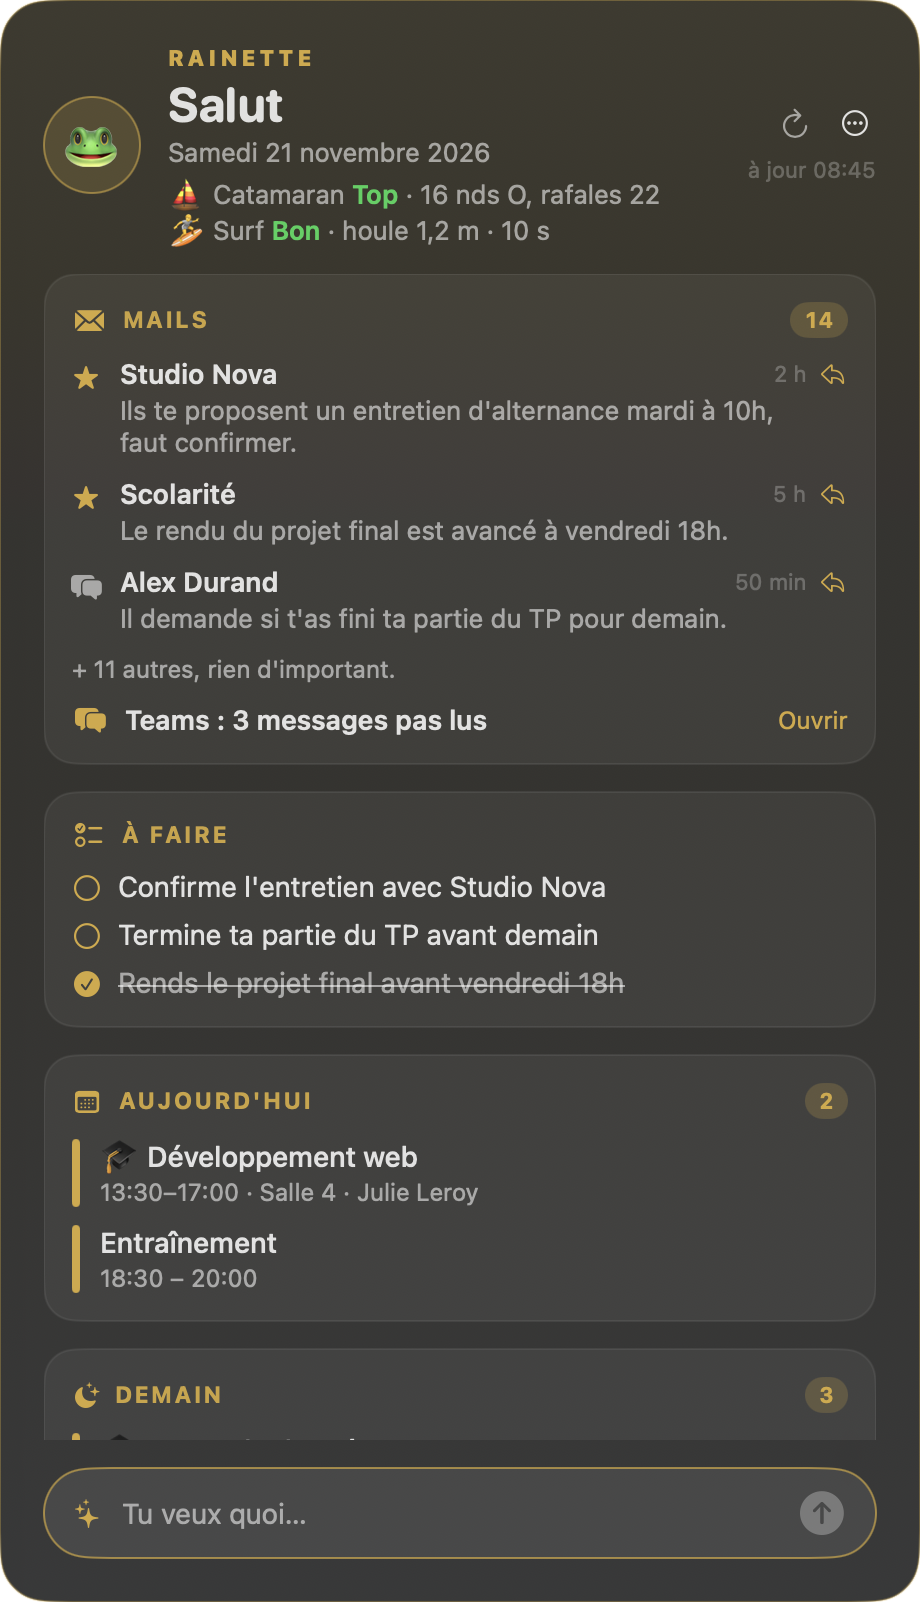
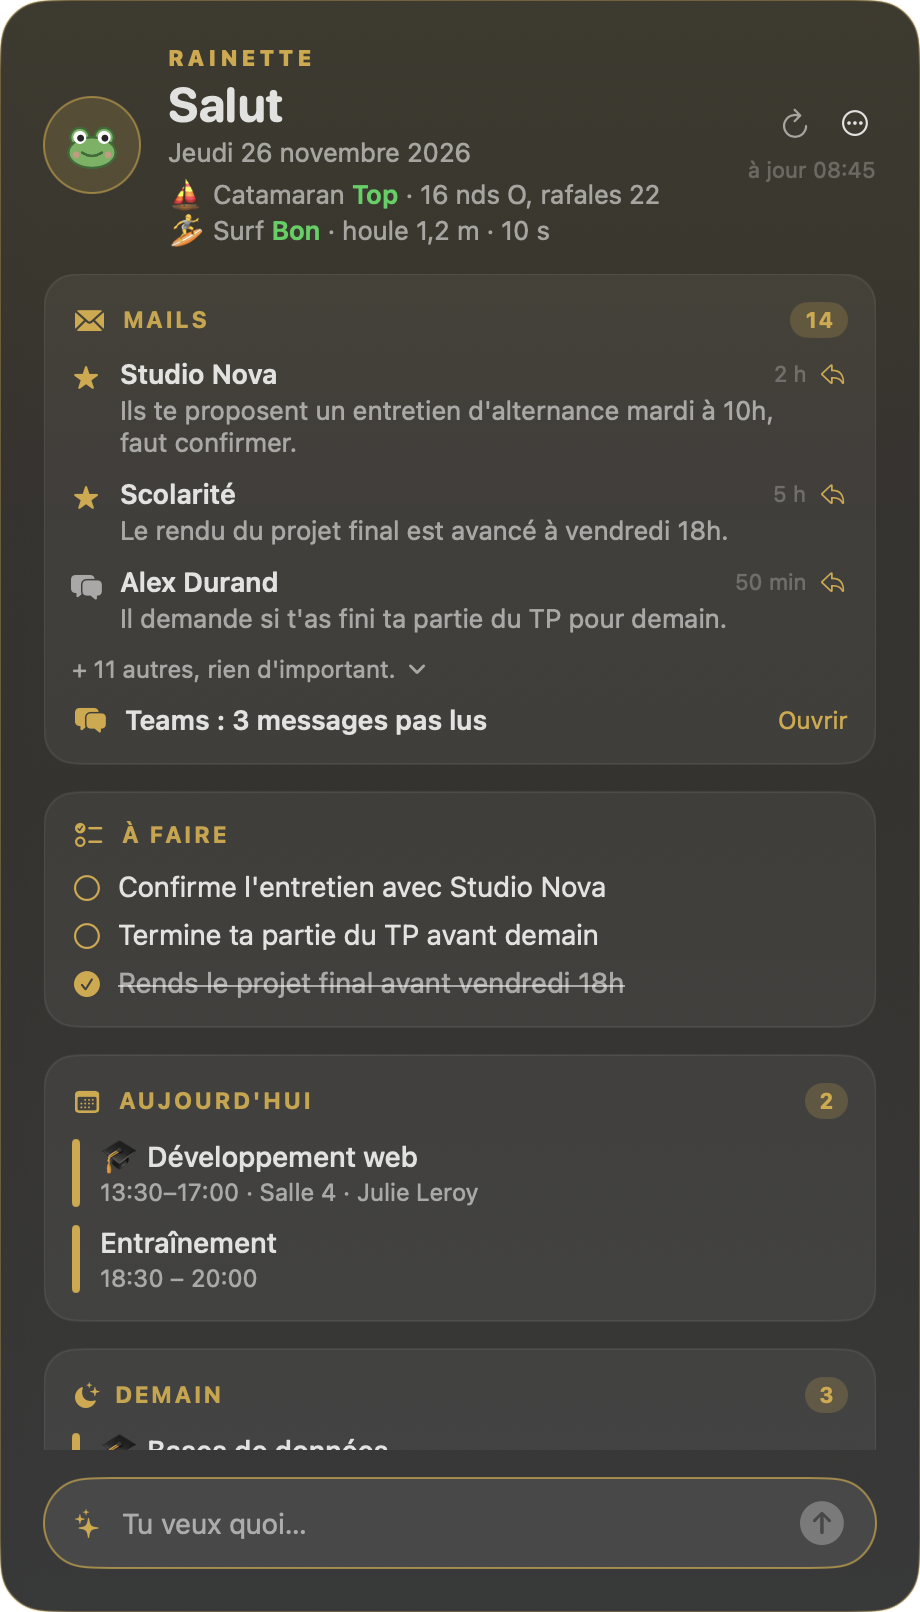
Grenouille dessinée avec ses humeurs (clignement, nuit, pluie, rien à faire), réglage « meteo », captures à jour

diff --git a/Sources/Grenouille.swift b/Sources/Grenouille.swift
@@ -1,0 +1,129 @@
+// La grenouille de Rainette, dessinée dans le code (nette à toutes les tailles), avec ses humeurs.
+import SwiftUI
+
+struct Grenouille: View {
+    enum Style: CaseIterable { case trait, pleine, minimale }
+    enum Humeur: CaseIterable { case normale, cligne, dort, pluie, contente }
+
+    var style: Style = .trait
+    var humeur: Humeur = .normale
+
+    private let vert = Color(red: 0.42, green: 0.70, blue: 0.36)
+    private let vertFonce = Color(red: 0.20, green: 0.42, blue: 0.20)
+    private let rose = Color(red: 0.95, green: 0.55, blue: 0.55)
+
+    var body: some View {
+        Canvas { ctx, taille in
+            let s = min(taille.width, taille.height)
+            func p(_ x: CGFloat, _ y: CGFloat) -> CGPoint { CGPoint(x: x * s, y: y * s) }
+            func rond(_ x: CGFloat, _ y: CGFloat, _ r: CGFloat) -> Path {
+                Path(ellipseIn: CGRect(x: (x - r) * s, y: (y - r) * s, width: 2 * r * s, height: 2 * r * s))
+            }
+
+            // Sous la pluie : un parapluie au-dessus, la grenouille un peu plus bas et plus petite.
+            var c = ctx
+            if humeur == .pluie {
+                dessinerParapluie(ctx, s: s, p: p)
+                c.translateBy(x: s * 0.09, y: s * 0.17)
+                c.scaleBy(x: 0.82, y: 0.82)
+            }
+
+            let trait = s * 0.034
+            let yeuxFermes = humeur == .cligne || humeur == .dort
+            let contente = humeur == .contente
+
+            // Tête et yeux
+            let tete = Path(ellipseIn: CGRect(x: 0.19 * s, y: 0.40 * s, width: 0.62 * s, height: 0.40 * s))
+            let oeilG = rond(0.34, 0.40, 0.125), oeilD = rond(0.66, 0.40, 0.125)
+            switch style {
+            case .trait:
+                // Remplissage opaque (couleur du fond du widget) : les yeux sont posés sur la tête,
+                // sans que les contours se croisent.
+                let fond = Color(red: 0.20, green: 0.18, blue: 0.11)
+                for f in [tete, oeilG, oeilD] {
+                    c.fill(f, with: .color(fond))
+                    c.fill(f, with: .color(or.opacity(0.16)))
+                    c.stroke(f, with: .color(or), lineWidth: trait)
+                }
+            case .pleine:
+                for f in [oeilG, oeilD, tete] {
+                    c.fill(f, with: .color(vert))
+                    c.stroke(f, with: .color(vertFonce), lineWidth: trait * 0.8)
+                }
+                // le contour des yeux passe derrière la tête : on la remplit à nouveau
+                c.fill(tete, with: .color(vert))
+                c.stroke(tete, with: .color(vertFonce), lineWidth: trait * 0.8)
+                c.fill(rond(0.29, 0.63, 0.045), with: .color(rose.opacity(0.7)))
+                c.fill(rond(0.71, 0.63, 0.045), with: .color(rose.opacity(0.7)))
+            case .minimale:
+                break
+            }
+
+            // Pupilles, ou yeux fermés
+            let couleurOeil: Color = style == .pleine ? vertFonce : or
+            for x in [0.34, 0.66] as [CGFloat] {
+                if yeuxFermes {
+                    var f = Path()
+                    f.move(to: p(x - 0.065, 0.405))
+                    f.addQuadCurve(to: p(x + 0.065, 0.405), control: p(x, humeur == .dort ? 0.45 : 0.43))
+                    c.stroke(f, with: .color(couleurOeil), style: StrokeStyle(lineWidth: trait, lineCap: .round))
+                } else if contente {
+                    var f = Path()               // yeux rieurs « ^ ^ »
+                    f.move(to: p(x - 0.06, 0.43))
+                    f.addQuadCurve(to: p(x + 0.06, 0.43), control: p(x, 0.34))
+                    c.stroke(f, with: .color(couleurOeil), style: StrokeStyle(lineWidth: trait, lineCap: .round))
+                } else {
+                    if style == .pleine { c.fill(rond(x, 0.40, 0.085), with: .color(.white)) }
+                    if style == .minimale { c.stroke(rond(x, 0.40, 0.1), with: .color(or), lineWidth: trait) }
+                    c.fill(rond(x + 0.01, 0.41, style == .pleine ? 0.045 : 0.05),
+                           with: .color(style == .pleine ? .black.opacity(0.85) : couleurOeil))
+                }
+            }
+
+            // Bouche
+            var bouche = Path()
+            bouche.move(to: p(0.37, 0.60))
+            bouche.addQuadCurve(to: p(0.63, 0.60), control: p(0.5, contente ? 0.76 : (humeur == .dort ? 0.64 : 0.69)))
+            let couleurBouche: Color = style == .pleine ? vertFonce : or
+            if contente {
+                var pleine = bouche
+                pleine.closeSubpath()
+                c.fill(pleine, with: .color(style == .pleine ? rose : or.opacity(0.35)))
+            }
+            c.stroke(bouche, with: .color(couleurBouche), style: StrokeStyle(lineWidth: trait, lineCap: .round))
+
+            // La nuit : des « z »
+            if humeur == .dort {
+                for (i, (x, y, t)) in [(0.86, 0.24, 0.12), (0.94, 0.11, 0.09)].enumerated() {
+                    c.draw(Text(i == 0 ? "z" : "Z").font(.system(size: s * t, weight: .bold, design: .rounded))
+                        .foregroundColor(or.opacity(0.9)), at: p(x, y))
+                }
+            }
+        }
+        .aspectRatio(1, contentMode: .fit)
+    }
+
+    private func dessinerParapluie(_ ctx: GraphicsContext, s: CGFloat, p: (CGFloat, CGFloat) -> CGPoint) {
+        var toile = Path()
+        toile.move(to: p(0.12, 0.30))
+        toile.addQuadCurve(to: p(0.88, 0.30), control: p(0.5, -0.06))
+        // bord festonné
+        toile.addQuadCurve(to: p(0.69, 0.30), control: p(0.785, 0.24))
+        toile.addQuadCurve(to: p(0.50, 0.30), control: p(0.595, 0.24))
+        toile.addQuadCurve(to: p(0.31, 0.30), control: p(0.405, 0.24))
+        toile.addQuadCurve(to: p(0.12, 0.30), control: p(0.215, 0.24))
+        ctx.fill(toile, with: .color(or.opacity(0.85)))
+        var manche = Path()
+        manche.move(to: p(0.5, 0.14))
+        manche.addLine(to: p(0.5, 0.40))
+        ctx.stroke(manche, with: .color(or), style: StrokeStyle(lineWidth: s * 0.03, lineCap: .round))
+        // gouttes
+        for (x, y) in [(0.10, 0.45), (0.90, 0.50), (0.06, 0.70), (0.93, 0.78)] as [(CGFloat, CGFloat)] {
+            var g = Path()
+            g.move(to: p(x, y))
+            g.addLine(to: p(x - 0.02, y + 0.07))
+            ctx.stroke(g, with: .color(Color(red: 0.55, green: 0.75, blue: 0.95).opacity(0.8)),
+                       style: StrokeStyle(lineWidth: s * 0.022, lineCap: .round))
+        }
+    }
+}

diff --git a/Sources/main.swift b/Sources/main.swift
@@ -229,6 +229,17 @@ final class Etat: ObservableObject {
 
     // Mer (spots des réglages)
     @Published var mer: Mer.Conditions?
+    /// Il pleut en ce moment (la grenouille sort son parapluie).
+    @Published var ilPleut = false
+
+    /// L'humeur de la grenouille : dort la nuit, parapluie s'il pleut, grand sourire s'il n'y a rien à faire.
+    var humeur: Grenouille.Humeur {
+        let h = Calendar.current.component(.hour, from: Date())
+        if h >= 23 || h < 6 { return .dort }
+        if ilPleut { return .pluie }
+        if etatMails == .ok, aFaire.allSatisfy({ faits.contains($0) }) { return .contente }
+        return .normale
+    }
     @Published var merErreur = false
     private var cleMails = ""
     /// Verdicts de l'IA déjà connus (seuls les nouveaux mails sont triés).
@@ -373,6 +384,7 @@ final class Etat: ObservableObject {
         if Demo.active { return }   // démo : jamais de vraies données
         rafraichir()
         Task {
+            ilPleut = await Mer.pleutIl()
             guard Mer.active else { return }
             do { mer = try await Mer.charger(); merErreur = false } catch { merErreur = mer == nil }
         }
@@ -843,6 +855,7 @@ struct Widget: View {
     @State private var saisie = ""
     @State private var hBulles: CGFloat = 80
     @State private var voirCaches = false
+    @State private var cligne = false
     @FocusState private var focus: Bool
     private let horloge = Timer.publish(every: 1800, on: .main, in: .common).autoconnect()
 
@@ -970,9 +983,21 @@ struct Widget: View {
             ZStack {
                 Circle().fill(or.opacity(0.18))
                 Circle().stroke(or.opacity(0.6), lineWidth: 1)
-                Text("🐸").font(.system(size: 26))
+                Grenouille(style: .pleine, humeur: cligne && [.normale, .pluie].contains(e.humeur) ? .cligne : e.humeur)
+                    .padding(5)
+                    .animation(.easeInOut(duration: 0.25), value: e.humeur)
             }
             .frame(width: 48, height: 48)
+            .help(e.humeur == .dort ? "Chut, je dors" : e.humeur == .pluie ? "Il pleut !" : e.humeur == .contente ? "Rien à faire 🎉" : "Rainette")
+            .task {
+                // Un clignement d'yeux toutes les 3 à 7 secondes.
+                while !Task.isCancelled {
+                    try? await Task.sleep(for: .seconds(Double.random(in: 3...7)))
+                    cligne = true
+                    try? await Task.sleep(for: .milliseconds(160))
+                    cligne = false
+                }
+            }
             VStack(alignment: .leading, spacing: 2) {
                 Text("RAINETTE").font(.system(size: 11, weight: .heavy)).kerning(2).foregroundStyle(or)
                 Text(salutation).font(.system(size: 24, weight: .bold, design: .rounded))
@@ -1258,7 +1283,9 @@ struct Widget: View {
                         VStack(alignment: .leading, spacing: 8) {
                             ForEach(e.bulles) { b in
                                 HStack(alignment: .bottom, spacing: 6) {
-                                    if b.deMoi { Spacer(minLength: 50) } else { Text("🐸").font(.system(size: 14)) }
+                                    if b.deMoi { Spacer(minLength: 50) } else {
+                                        Grenouille(style: .pleine).frame(width: 18, height: 18)
+                                    }
                                     Text(b.texte)
                                         .font(.system(size: 13.5))
                                         .textSelection(.enabled)

diff --git a/Sources/Mer.swift b/Sources/Mer.swift
@@ -55,6 +55,24 @@ enum Mer {
         return (temps, valeurs)
     }
 
+    /// Codes météo WMO de pluie, bruine, averses ou orage (51 à 67, 80 à 82, 95 à 99), ou des précipitations mesurées.
+    static func estPluie(code: Int, precipitation: Double) -> Bool {
+        (51...67).contains(code) || (80...82).contains(code) || (95...99).contains(code) || precipitation >= 0.2
+    }
+
+    /// Il pleut en ce moment au lieu « météo » des réglages (à défaut, le spot de navigation) ?
+    static func pleutIl() async -> Bool {
+        let r = Reglages.actuels
+        guard let lieu = r.meteo ?? r.mer?.navigation?.vent, lieu.count == 2,
+              let url = URL(string: "https://api.open-meteo.com/v1/forecast?latitude=\(lieu[0])&longitude=\(lieu[1])"
+                            + "&current=weather_code,precipitation") else { return false }
+        guard let (data, _) = try? await URLSession.shared.data(from: url),
+              let json = try? JSONSerialization.jsonObject(with: data) as? [String: Any],
+              let c = json["current"] as? [String: Any] else { return false }
+        return estPluie(code: (c["weather_code"] as? NSNumber)?.intValue ?? 0,
+                        precipitation: (c["precipitation"] as? NSNumber)?.doubleValue ?? 0)
+    }
+
     private static func vent(_ p: (Double, Double)) async throws -> Series {
         try await lire("https://api.open-meteo.com/v1/forecast?latitude=\(p.0)&longitude=\(p.1)"
             + "&hourly=wind_speed_10m,wind_direction_10m,wind_gusts_10m&wind_speed_unit=kn"

diff --git a/Sources/Reglages.swift b/Sources/Reglages.swift
@@ -36,6 +36,9 @@ struct Reglages: Codable {
     var emploiDuTemps: Page?
     /// Spots pour les conditions en mer (Open-Meteo). Absent = pas de ligne mer.
     var mer: Mer?
+    /// [latitude, longitude] du lieu où regarder s'il pleut (la grenouille sort son parapluie).
+    /// Absent = le spot de navigation.
+    var meteo: [Double]?
 
     init() {}
 
@@ -52,6 +55,7 @@ struct Reglages: Codable {
         contactsTeams = try c.decodeIfPresent([String].self, forKey: .contactsTeams) ?? base.contactsTeams
         emploiDuTemps = try c.decodeIfPresent(Page.self, forKey: .emploiDuTemps)
         mer = try c.decodeIfPresent(Mer.self, forKey: .mer)
+        meteo = try c.decodeIfPresent([Double].self, forKey: .meteo)
     }
 
     static var fichier: URL {

diff --git a/Tests/Tests.swift b/Tests/Tests.swift
@@ -118,5 +118,9 @@ func texte(_ d: Date) -> String {
         verifie(Mer.avisSurf(h(vent: 5, dir: 90, houle: 1.0, periode: 10)).1 == "Bon", "1 m, vent de terre → Bon")
         verifie(Mer.avisSurf(h(vent: 5, houle: 2.6)).1 == "Trop gros", "2,6 m → Trop gros")
         verifie(Mer.avisSurf(h(vent: 15, dir: 270, houle: 1.0)).1 == "Haché", "vent de mer 15 nds → Haché")
+        verifie(Mer.estPluie(code: 61, precipitation: 0), "code 61 (pluie) → parapluie")
+        verifie(Mer.estPluie(code: 3, precipitation: 0.5), "0,5 mm mesurés → parapluie")
+        verifie(!Mer.estPluie(code: 2, precipitation: 0), "nuageux sec → pas de parapluie")
+        verifie(!Mer.estPluie(code: 45, precipitation: 0.1), "brouillard → pas de parapluie")
     }
 }

diff --git a/README.md b/README.md
@@ -70,6 +70,7 @@ Le plus simple est de partir de [`reglages.exemple.json`](reglages.exemple.json)
 - `compteMicrosoft` active Outlook, Teams et la connexion à l'emploi du temps. `contactsTeams` dit de qui lire les messages.
 - `emploiDuTemps` prend l'adresse de la page d'emploi du temps.
 - `mer` prend deux spots, chacun avec un point pour le vent (près de la plage) et un pour la houle (un peu au large).
+- `meteo` est le point `[latitude, longitude]` où regarder s'il pleut, pour que la grenouille sorte son parapluie (par défaut, le spot de voile).
 
 Pour Outlook, Teams et l'emploi du temps, un bouton « Brancher » apparaît dans le widget : tu te connectes une fois et c'est bon. Rainette n'ouvre ensuite ces pages que le temps de les lire, pour ne pas manger de mémoire.
 
